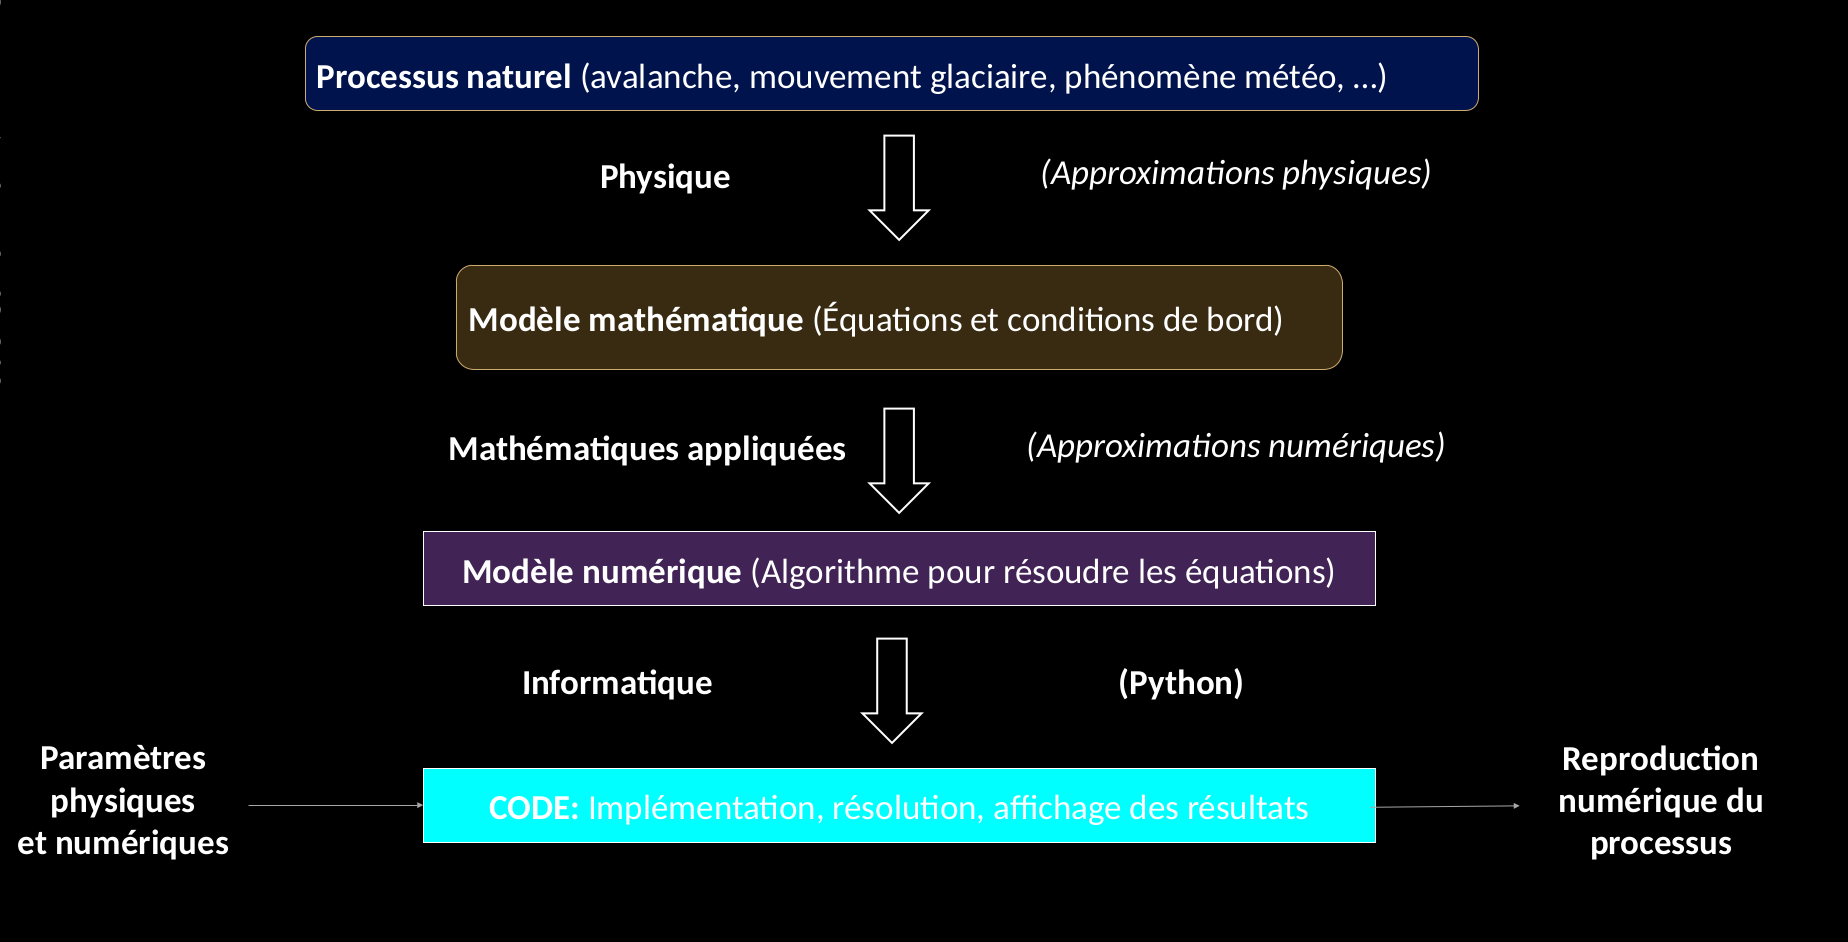
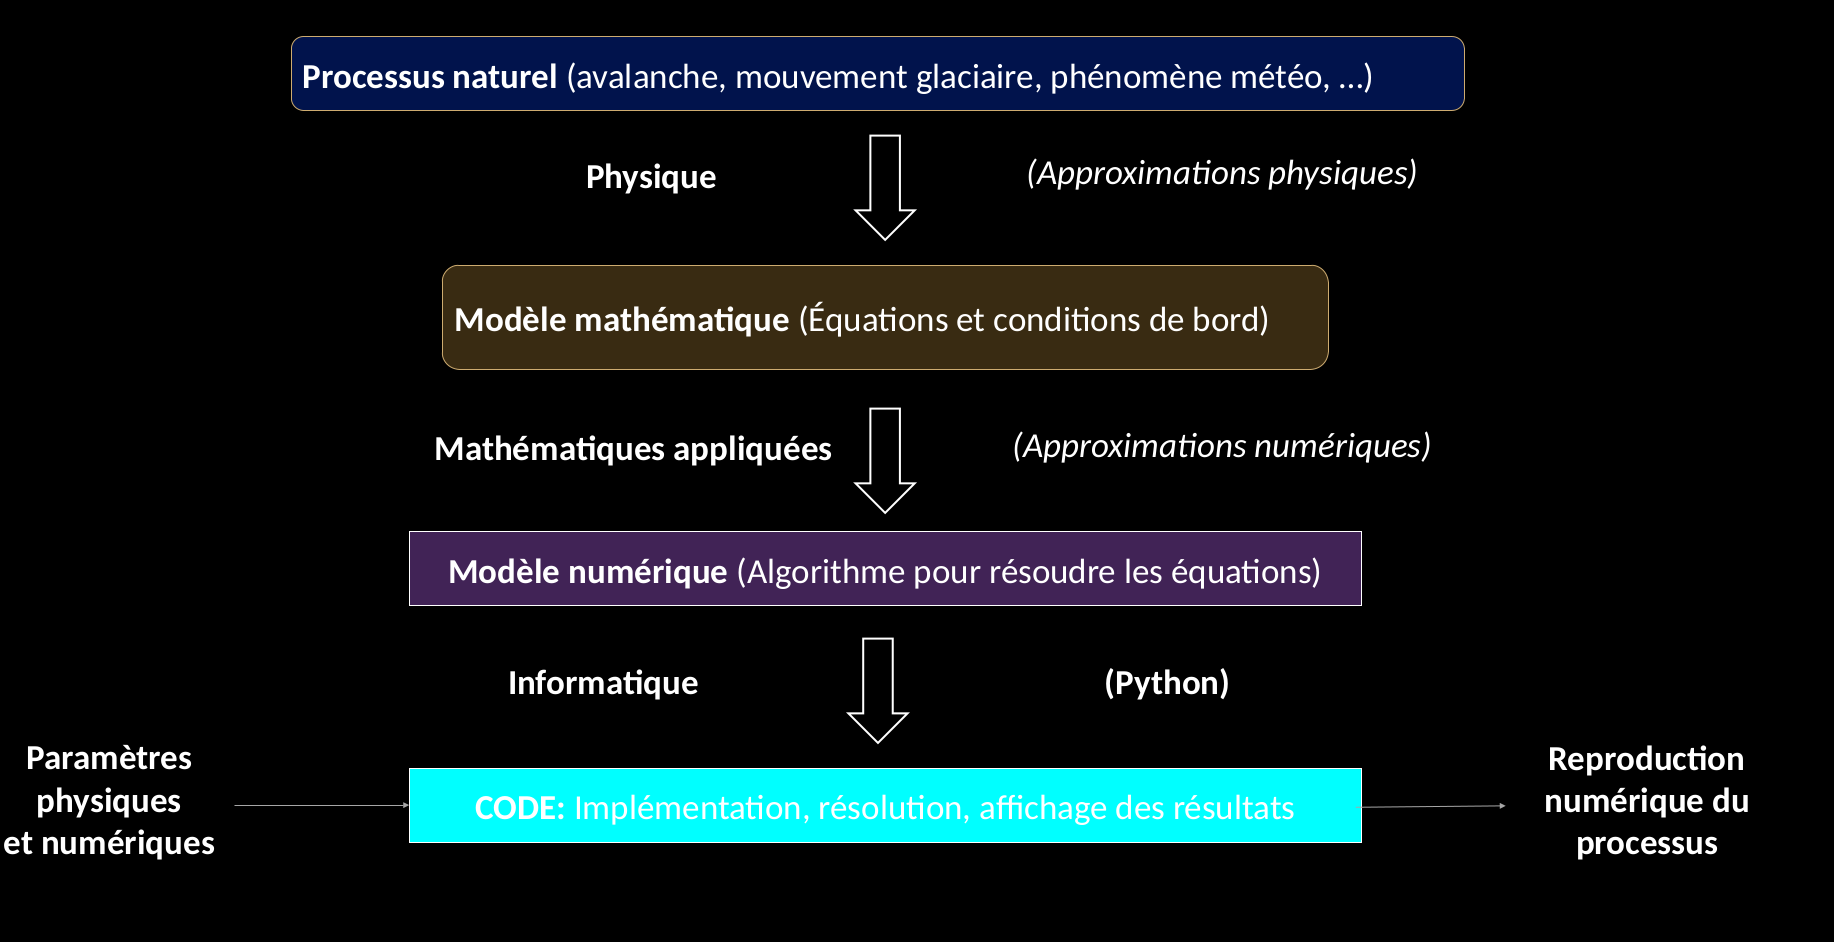
Cours 1 : figure analytique vs numerique, slide incrementation, notation d/dt, coquilles
- Nouveau slide illustre (SVG + PNG) pour 'Solution analytique versus numerique'
- Slide 'Incrementation +=' ajoute, puce 'Slicing' retiree des notions fondamentales
- d/dt pour les equations ne dependant que du temps, 'taux de changement'
- Figure framework recadree, espaces parasites et coquilles corriges
- Cours 2 et 10 : retouches mineures de texte
- Notebooks etudiants et zips regeneres

Claude-Session: https://claude.ai/code/session_01TJdKXcxQ68ENgjbox7vowj

diff --git a/01_cours/01_cours.md b/01_cours/01_cours.md
@@ -33,9 +33,9 @@ style: |
 - Initialisation, règle de mise à jour et boucle temporelle
 - Solution analytique versus solution numérique
 
- ---
+---
 
- # Du processus à la résolution numérique
+# Du processus à la résolution numérique
 
 ![](./fig/framework.png)
 
@@ -57,7 +57,7 @@ Voir des modélisations sur https://jouvetg.github.io/the-aletsch-glacier-module
 
 ![height:400px](./fig/ex_velage2_s1.png)
 
-Source: J. Gaume, animation: https://youtu.be/7IC_ehdH7ZM
+Source : J. Gaume, animation: https://youtu.be/7IC_ehdH7ZM
 
 ---
 
@@ -65,28 +65,28 @@ Source: J. Gaume, animation: https://youtu.be/7IC_ehdH7ZM
 
 ![height:350px](./fig/ex_avalanche_s1.png)
 
-Source: J. Gaume, animation: https://youtu.be/YQ7e06-MZec
+Source : J. Gaume, animation: https://youtu.be/YQ7e06-MZec
 
 ---
 
-# Exemple 4: Modèles climatiques
+# Exemple 4 : Modèles climatiques
 
 ![](fig/ex_mod_climatique_s1.png)
-Source: http://www.windy.com/
+Source : http://www.windy.com/
 
 ---
 
-# Exemple 5: Tectonique des plaques
+# Exemple 5 : Tectonique des plaques
 ![](fig/subduction_s3.png)
 Source : Candioti et al., 2022 (UNIL/FGSE)
 
 ---
 
-# Exemple 6: Évolution du paysage
+# Exemple 6 : Évolution du paysage
 
 ![height:350px](./fig/evol_paysage_s3.png)
 
-La formation des paysages fait intervenir i) tectonique des plaques, ii) érosion fluviale, iii)processus de versant, iv) érosion glaciaire, v) transport de sédiments.
+La formation des paysages fait intervenir i) tectonique des plaques, ii) érosion fluviale, iii) processus de versant, iv) érosion glaciaire, v) transport de sédiments.
 
 Source : Campforts et al., 2017, Esurf
 
@@ -117,11 +117,11 @@ https://jouvetg.github.io/modnum/00_intro_python/00_intro_python.html
 
 # Tips pour VS Code
 
-- À l'ouverture de VS Code, un dossier `Code` sur le bureau vous permet d'accéder à vos notebooks. Ce dossier est sauvegardé.
+1) À l'ouverture de VS Code, un dossier `Code` sur le bureau vous permet d'accéder à vos notebooks. Ce dossier est sauvegardé.
 
-- L'éditeur peut être séparé en deux pour voir les données (à gauche) et le code (à droite).
+2) L'éditeur peut être séparé en deux pour voir les données (à gauche) et le code (à droite).
 
-- Veuillez charger un "kernel" Python comme interpréteur.
+3) Veuillez charger un "kernel" Python comme interpréteur.
 
 ---
 
@@ -170,7 +170,7 @@ On peut aussi écrire du texte, afficher une image, des équations …
 - Import de bibliothèques
 - Indentation
 - Indexation
-- Slicing
+- Incrémentation `+=`
 
 ---
 
@@ -230,17 +230,34 @@ alors, on peut accéder à chaque élément à partir du début ou de la fin:
 
 ---
 
-# Initialisation et règle de mise à jour
+# Incrémentation
 
-L'objectif de ce cours est d'implémenter l'évolution de phénomènes physiques. Nous serons donc amenés à **initialiser** et **mettre à jour** des variables. Dans l'exemple simple suivant, nous **initialisons** le temps à zéro. À chaque pas de temps, nous **mettons à jour** le temps en l'incrémentant du pas de temps `dt`.
+Pour augmenter une variable de la valeur d'une autre, Python offre un raccourci :
 
 ```python
+temps = temps + dt   # forme longue
+temps += dt          # forme courte, strictement équivalente
+```
+
+C'est l'opération que nous ferons à chaque pas de temps, pour le temps comme pour toutes les variables du modèle.
+
+---
+
+# Initialisation et règle de mise à jour
+
+L'objectif de ce cours est d'implémenter l'évolution de phénomènes physiques. 
+
+Nous serons donc amenés à **initialiser** et **mettre à jour** des variables:
+
+```python
+# INITIALISATION
 temps = 0 # seconde
-dt   = 1 # seconde
+dt   = 1  # seconde
 nt   = 1000
 
 for it in range(nt): # Fait une boucle qui itère 1000 fois
-  temps += dt
+  # MISE A JOUR
+  temps += dt # seconde
   print("Itération", it, ": le temps vaut", temps)
 ```
 
@@ -248,14 +265,14 @@ for it in range(nt): # Fait une boucle qui itère 1000 fois
 
 # Tous les modèles de ce cours se formalisent par
 
-$$ \frac{\partial f}{\partial t} = {\rm qlq \; chose} $$
+$$ \frac{d f}{d t} = {\rm taux \; de \; changement} $$
 
 Par exemple:
 
 $$
 \begin{align}
-\frac{\partial F}{\partial t} & = {\rm Salaire} - {\rm Depense} & \textrm{(Équation de la "fortune" F)} \\
- \frac{\partial X}{\partial t} & = {\rm Vitesse} & \textrm{(Équation de la "position" X )} \\
+\frac{d F}{d t} & = {\rm Salaire} - {\rm Dépense} & \textrm{(Équation de la "fortune" F)} \\
+ \frac{d X}{d t} & = {\rm Vitesse} & \textrm{(Équation de la "position" X )} \\
  \frac{\partial C}{\partial t} & = D \frac{\partial^2 C}{\partial x^2}  & \textrm{(Équation de diffusion pour la "concentration" C)} \\
  \frac{\partial T}{\partial t} & =  D \frac{\partial^2 T}{\partial x^2} - V \frac{\partial T}{\partial x}  &\textrm{(Équation de diffusion-advection pour la "température" T)}
 \end{align}
@@ -265,7 +282,7 @@ $$
 
 # Tous les modèles de ce cours s'implémentent
 
-$$ f_{new} = f_{old} + dt \times {\rm qlq \; chose} $$
+$$ f_{new} = f_{old} + dt \times {\rm taux \; de \; changement} $$
 
 Un exemple en python (qui utilise l'incrémentation `+=`):
 
@@ -288,13 +305,10 @@ for it in range(nt):
 
 # Solution analytique versus numérique
 
-Il existe deux manières de résoudre un modèle :
+![height:430px](./fig/analytique_vs_numerique.png)
 
-**1. Analytiquement** : lorsque l'on peut trouver une solution exacte (c'est-à-dire une formule), ce qui est rarement le cas en pratique.
-
-**2. Numériquement** : lorsque l'on peut implémenter un algorithme qui approchera la solution à l'aide d'une méthode numérique itérative, ce qui est moins précis mais beaucoup plus général.
-
-L'objectif principal du cours de modélisation numérique est d'apprendre à calculer des solutions **numériques** pour des problèmes inspirés de la physique.
+Une formule exacte n'existe que rarement!
+Ce cours apprend à **approcher la solution numériquement**.
 
 ---
 

diff --git a/02_cours/02_cours.md b/02_cours/02_cours.md
@@ -277,4 +277,4 @@ x += V * dt
 
 **L'exercice** — construire la boucle temporelle, voir l'effet du pas de temps sur le trajet, puis passer en 2D en décomposant la vitesse.
 
-**Le tutoriel** — les figures interactives : `clear_output`, `ax.cla`, `display`, et pourquoi il faut figer les axes.
+**Le tutoriel** — les figures interactives.

diff --git a/10_cours/10_cours.md b/10_cours/10_cours.md
@@ -71,7 +71,7 @@ Nous introduisons les notations suivantes:
 
 - $h$ est la **h**auteur de glace,
 - $l$ est l'altitude du **l**it rocheux,
-- $s=l+h$ est l'**a**ltitude de la **s**urface du glacier,
+- $s=l+h$ est l'altitude de la **s**urface du glacier,
 - $b$ est le **b**ilan de masse.
 
 ---
